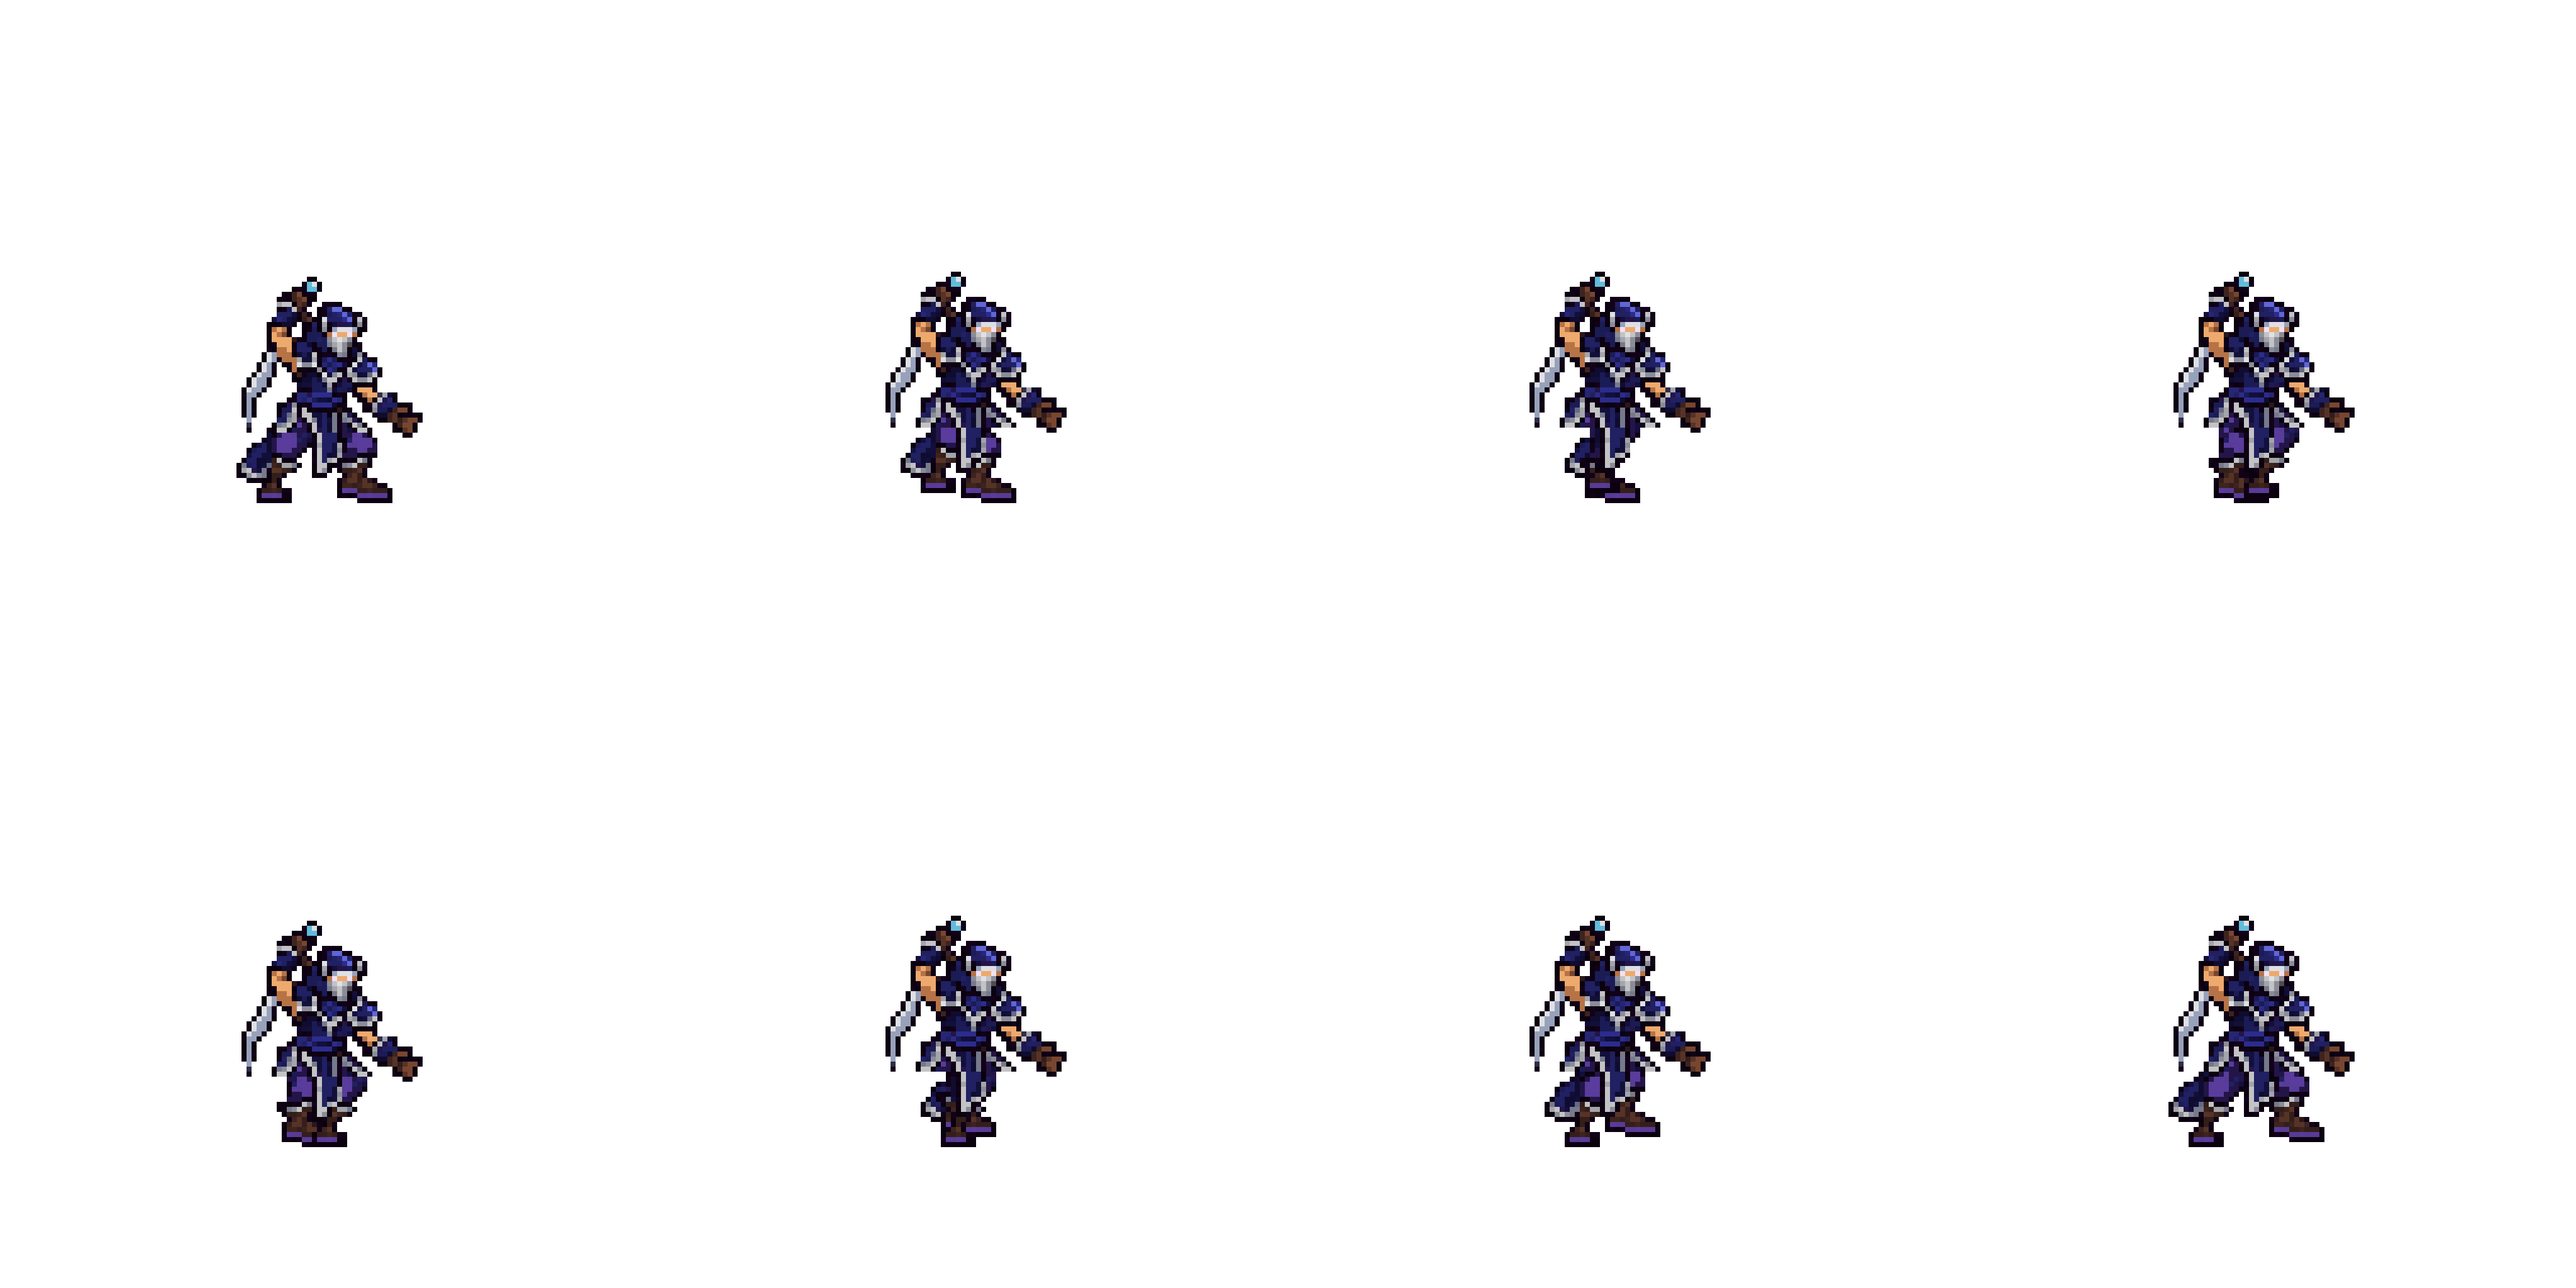
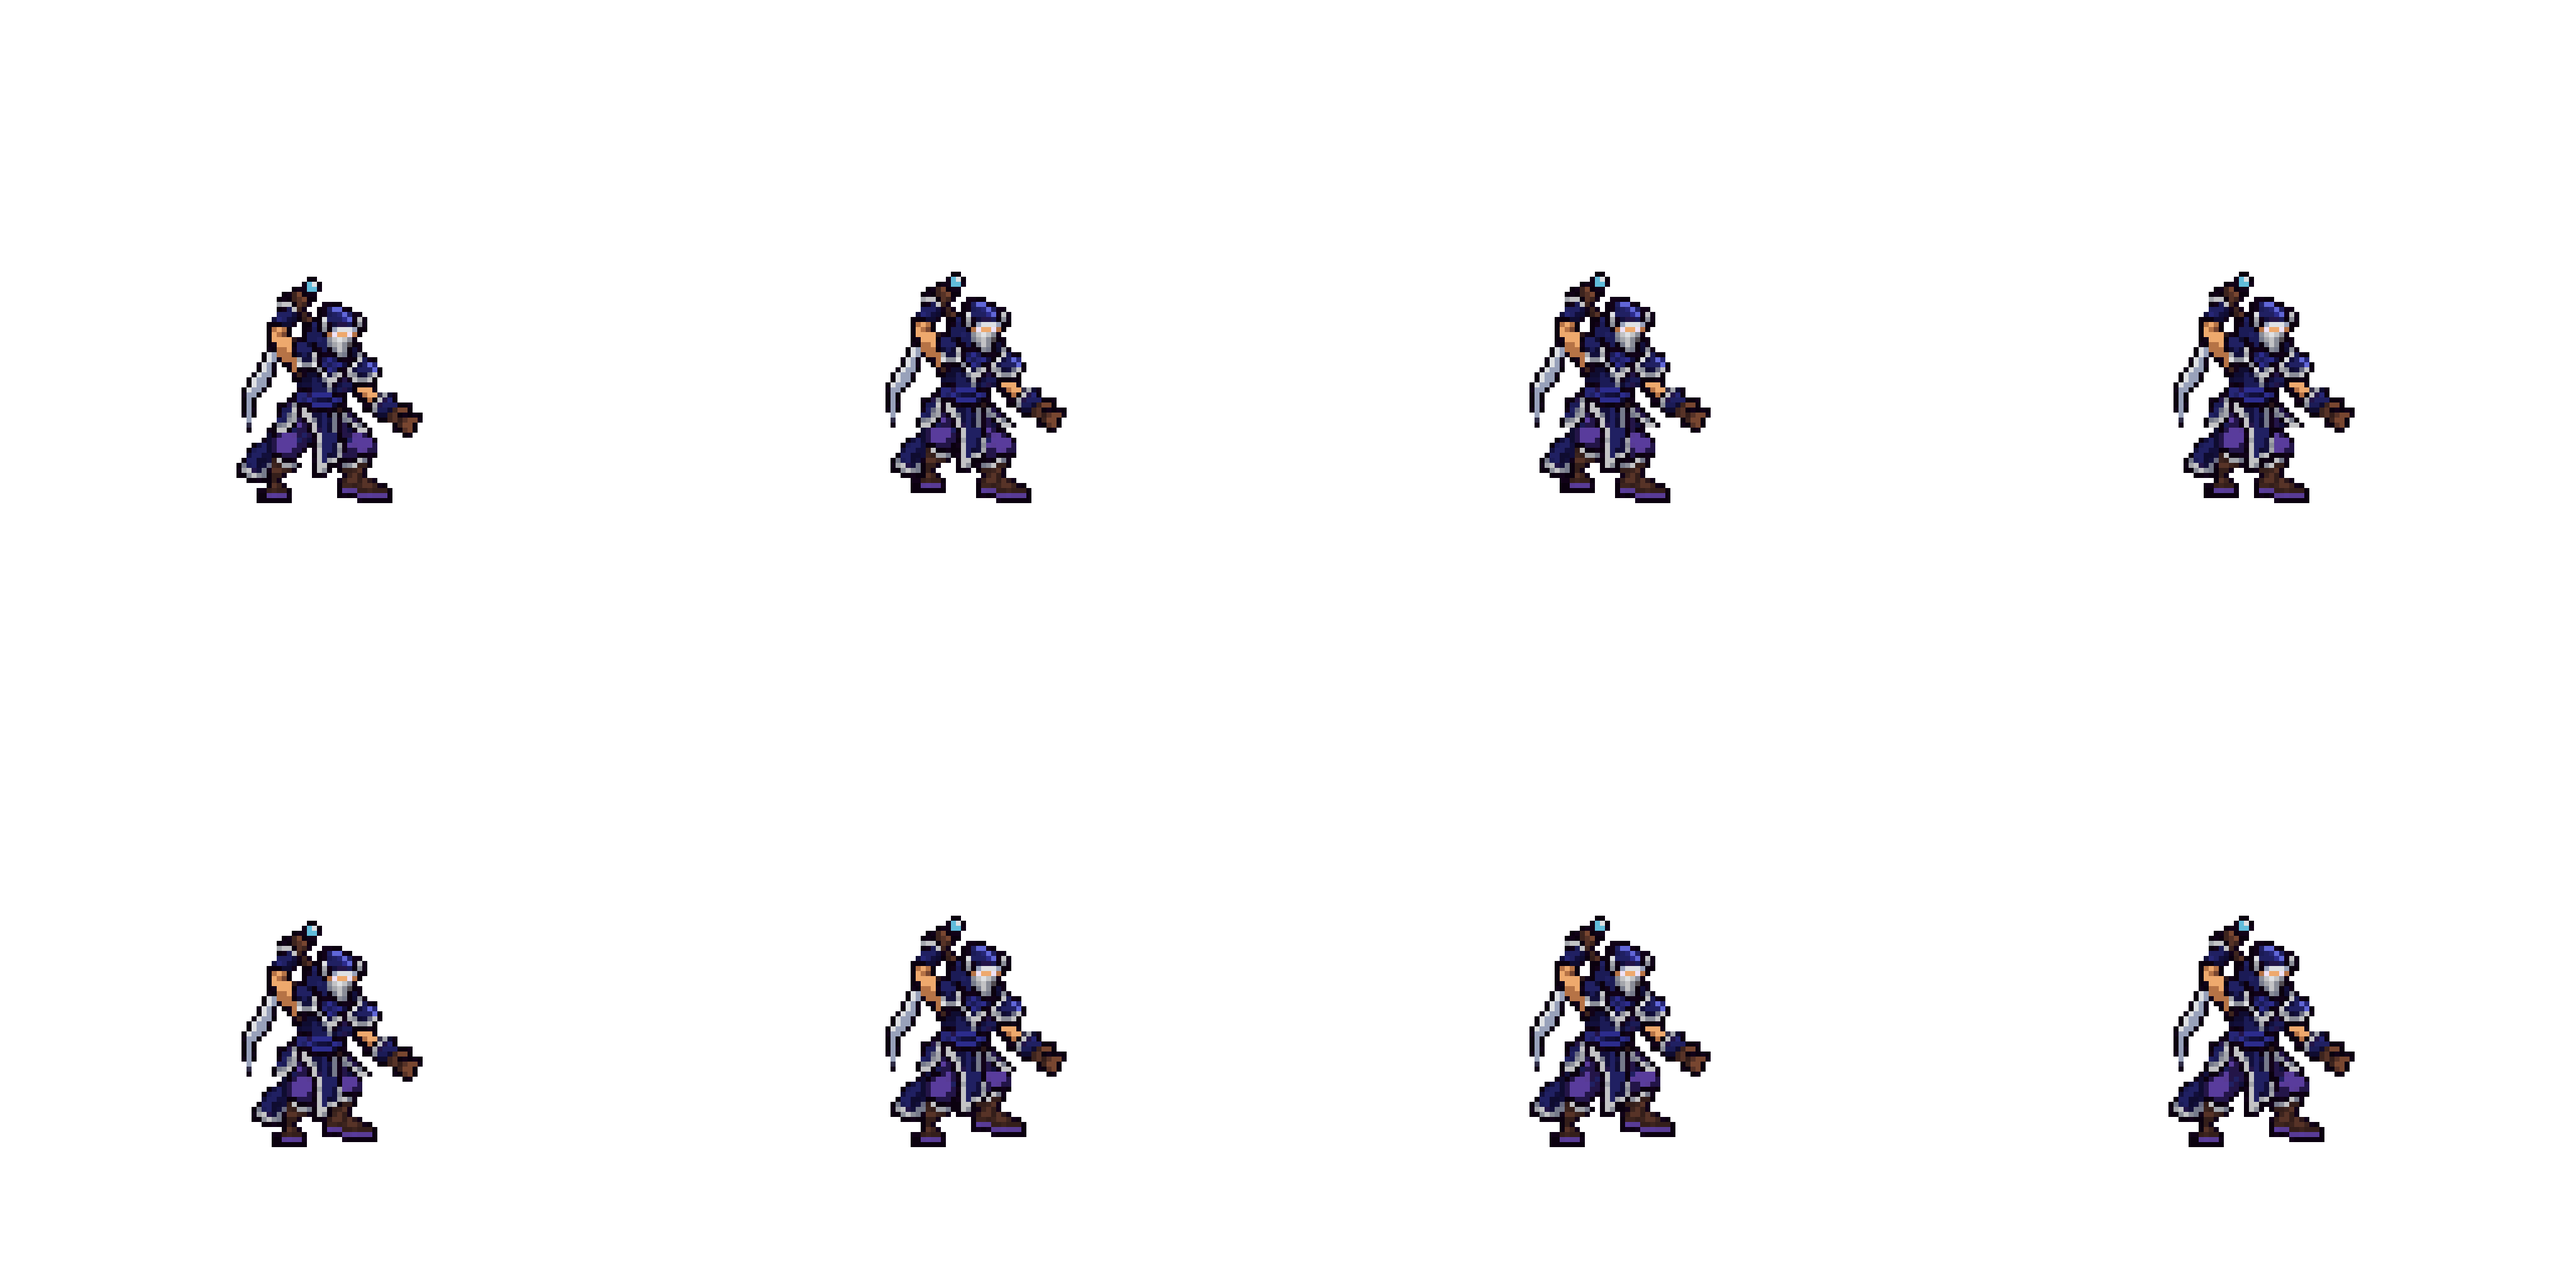
Shen (#85): run = the design's legs scissoring inwards 3 columns, never overlapping
Legs that passed each other overlapped into one thick leg (「别变形」); the near foot is
mirrored to point forward. Nothing redrawn; every frame one piece.

diff --git a/tools/art/fix_shen_strips.py b/tools/art/fix_shen_strips.py
@@ -54,12 +54,14 @@ CANVAS_SQUARE = 1254 / 128
 # 85-99, the boot included) moved whole (NEAR_STEP / FAR_STEP); the two legs half a cycle apart; the body (rows <= 84) sinks 1 row as a foot lands; the
 # tail hem rides with the near leg (it hangs behind it), the apron stays with the body in front.
 # A scissor step (the user: 「好歹有点换脚的感觉啊 平行走路？？？？」 on legs lifting in place): the near leg swings
-# forward (+x, lifted) while the far leg, planted, slides back (-x), then the other way; each travels 11 columns, so
-# the lead foot swaps (idle: the far foot 18 ahead; frame 5: the near foot 4 ahead). Moving towards and past the
-# apron never opens a slit beside it (a leg moved away from it did: 「这对吗」); the near leg stays in front.
-NEAR_STEP = [(0, 0), (4, 2), (8, 2), (11, 1), (11, 0), (8, 0), (4, 0), (0, 0)]      # (columns, rows up)
-FAR_STEP = [(0, 0), (-4, 0), (-8, 0), (-11, 0), (-11, 0), (-8, 2), (-4, 2), (0, 1)]
+# forward (+x, lifted) while the planted far leg slides back (-x), then the other way. Each travels 3 columns inwards
+# and back, so the feet close from 18 apart to 12 and the bulbs touch but never overlap (legs that passed each other
+# overlapped into one thick leg: 「别变形」); moving towards the apron never opens a slit beside it (a leg moved away from
+# it did: 「这对吗」). The near foot is mirrored to point forward.
+NEAR_STEP = [(0, 0), (2, 2), (3, 2), (3, 1), (3, 0), (2, 0), (1, 0), (0, 0)]        # (columns, rows up)
+FAR_STEP = [(0, 0), (-1, 0), (-2, 0), (-3, 0), (-3, 1), (-2, 2), (-1, 2), (0, 1)]
 TROT_BOB = [1, 0, 0, 0, 1, 0, 0, 0]
+NEAR_FOOT_TOP = 96
 LEG_TOP = 85
 EYE = (239, 226, 246)
 SPECK = 4
@@ -367,6 +369,10 @@ def trot_parts(des):
     far = masked(des, range(LEG_TOP, 100), lambda y: (68, 75) if y <= 90 else (66, 77))
     near = masked(des, range(LEG_TOP, 100),
                   lambda y: (53, 61) if y <= 90 else ((54, 59) if y <= 92 else ((53, 58) if y <= 94 else (51, 57))))
+    # the idle's near foot points backwards (a turned-out stance): mirrored about its own middle so its toe leads
+    # when the leg swings forward (a mirror, nothing redrawn); the shaft above it stays
+    foot = near[NEAR_FOOT_TOP:100, 51:58]
+    near[NEAR_FOOT_TOP:100, 51:58] = foot[:, ::-1]
     upper = des.copy()
     upper[LEG_TOP:, :78] = 0
     upper[LEG_TOP + 2:] = 0
